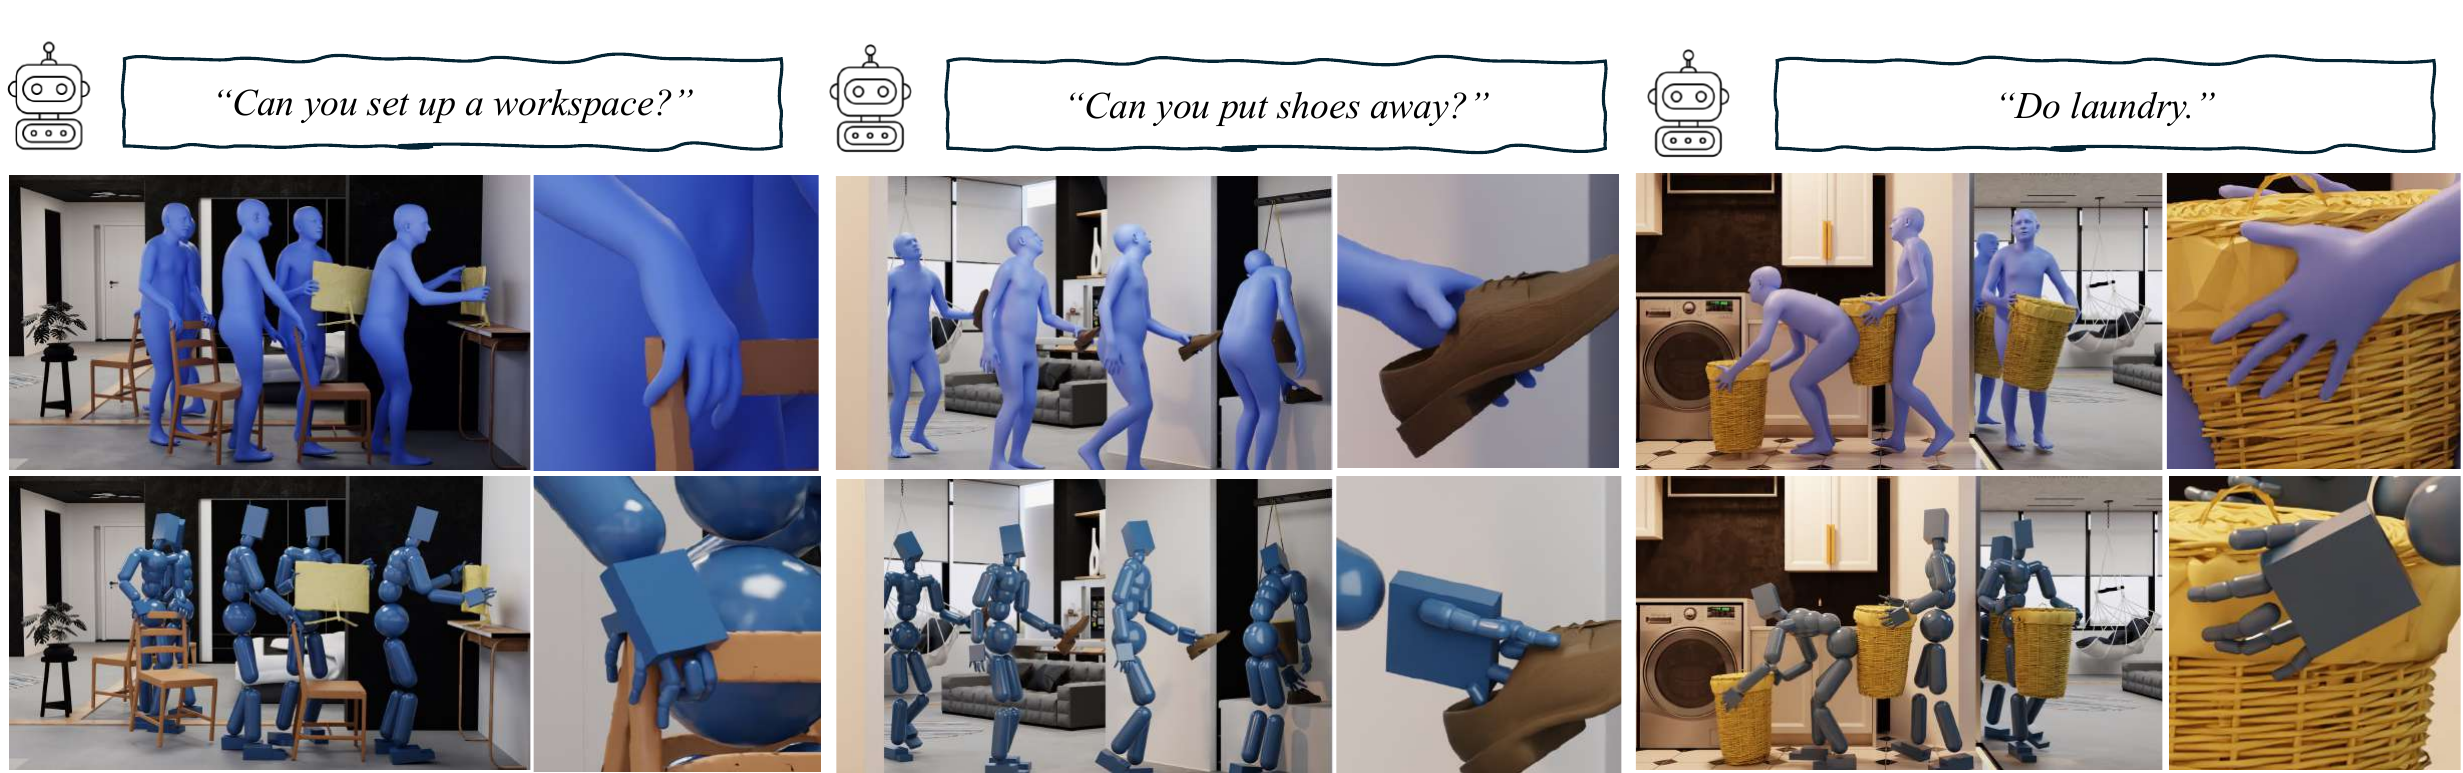
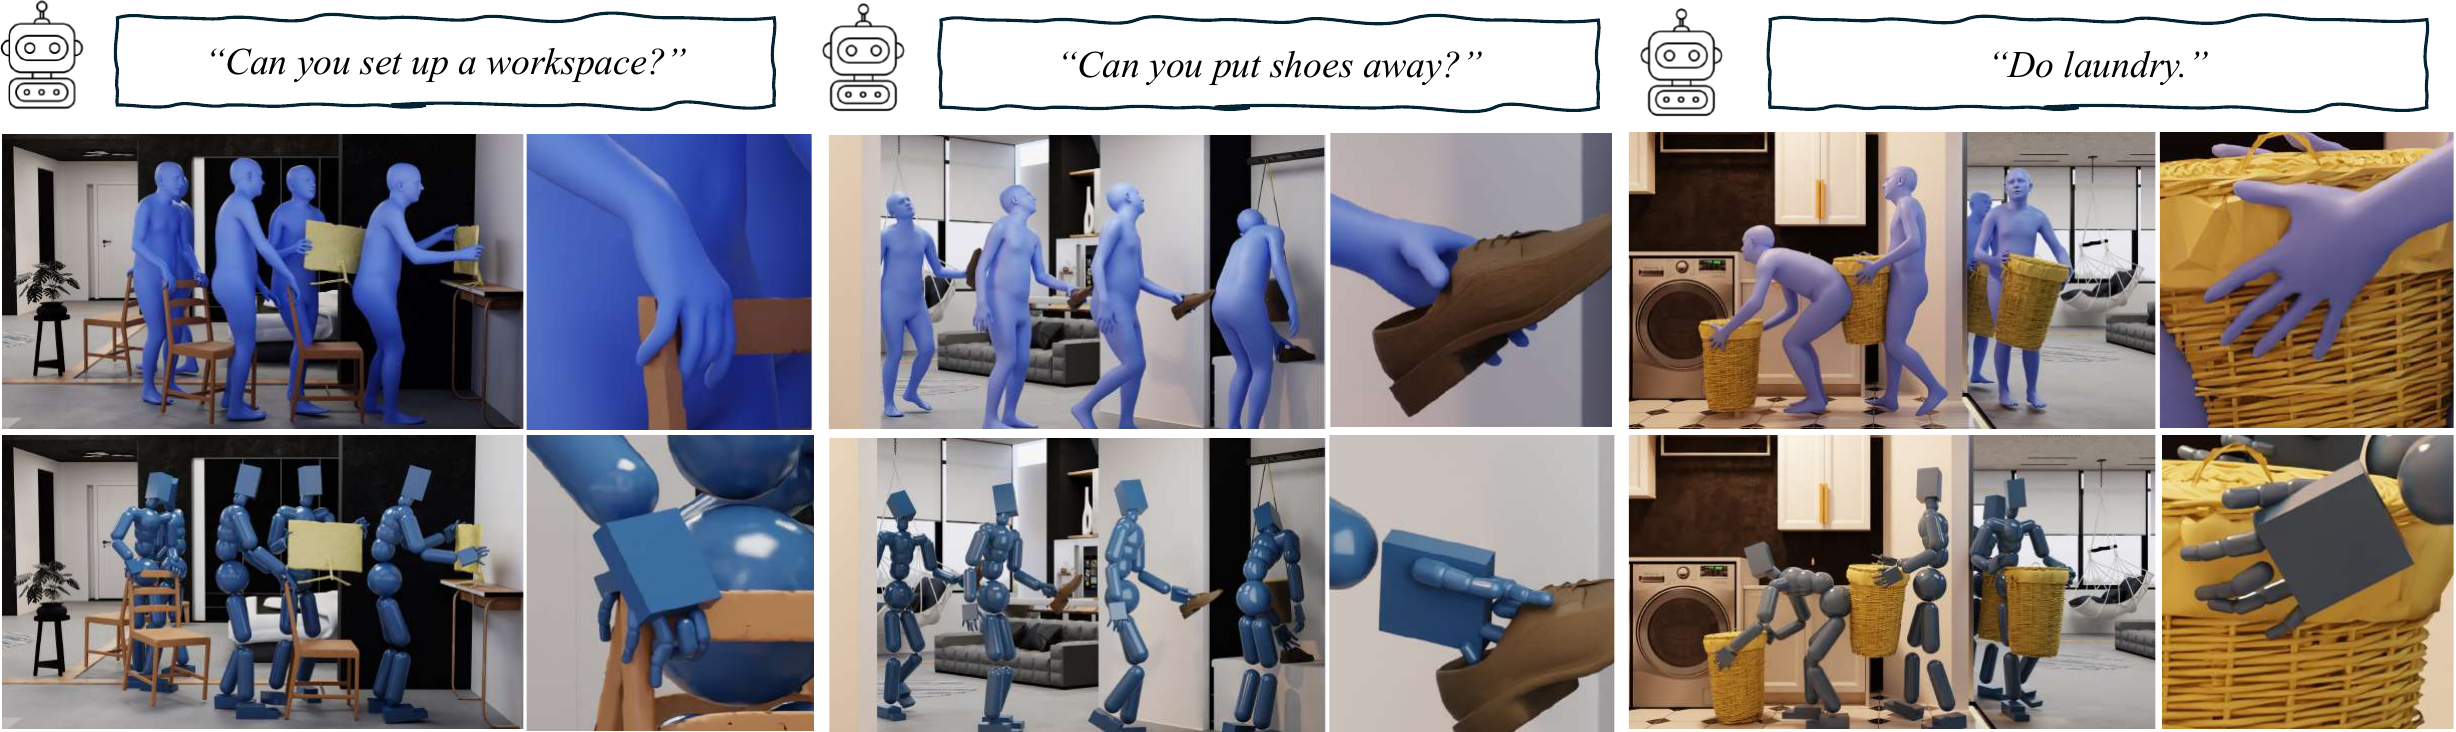
.

diff --git a/_pages/hoifhli.md b/_pages/hoifhli.md
@@ -22,9 +22,10 @@ redirect_from:
 
 In _ICCV_, 2025.
 
+![teaser](projects/hoifhli/teaser1.png)
+{: .teasers}
 
 ## Abstract
-![teaser](projects/hoifhli/teaser1.png){: style="width:500px;float:right;max-width:100%;padding:0 0 10px 20px;clear:both"}
 ![ICCV 2025](projects/hoifhli/iccv2025_logo.png){: style="float:right;width:200px;max-width:100%;padding:20px 0 10px 20px;clear:both"}
 Intelligent agents must autonomously interact with the environments to perform daily tasks based on human-level instructions. They need a foundational understanding of the world to accurately interpret these instructions, along with precise low-level movement and interaction skills to execute the derived actions. In this work, we propose the first complete system for synthesizing physically plausible, long-horizon human-object interactions for object manipulation in contextual environments, driven by human-level instructions. We leverage large language models (LLMs) to interpret the input instructions into detailed execution plans. Unlike prior work, our system is capable of generating detailed finger-object interactions, in seamless coordination with full-body movements. We also train a policy to track generated motions in physics simulation via reinforcement learning (RL) to ensure physical plausibility of the motion. Our experiments demonstrate the effectiveness of our system in synthesizing realistic interactions with diverse objects in complex environments, highlighting its potential for real-world applications.
 
